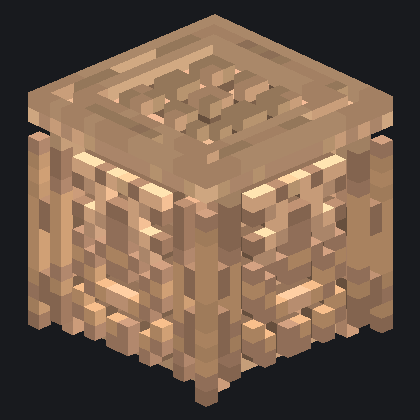
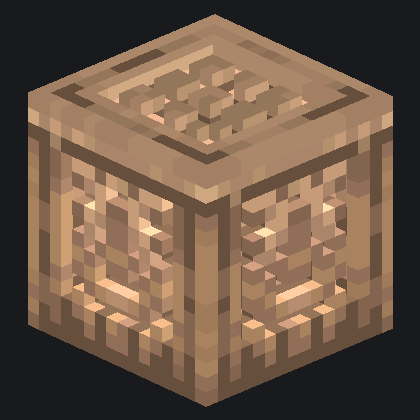
bake: a solid node is opaque to EVERY ray, not just axis-aligned ones
John's slivers -- bright specks inside the cabin's solid walls, present
at claude_descend = 1 and gone at 0 -- are the 2026-08-16 "HOLES IN THE
WALL" defect, incompletely fixed. That fix closed every all-air line
through a model ON AN AXIS and plugged each with one cell. A ray is not
axis aligned, the face carves are 3 cells deep, and a ray that drifts
one sub-voxel sideways walks round the plug and out of the node.

WHICH OF THE THREE POSSIBLE FAULTS IT IS, established before the fix:

  * the WALK is clean. claude_view 8 (new) re-walks the primary ray with
    a dumb 1/32 m point sampler -- half a sub-voxel, so it cannot step
    over one -- against the same texture. It found a surface march()
    had walked past on ZERO pixels of the frame, before the fix as well
    as after.
  * the READ is clean, and it is not displaced. claude_view 7 (new)
    dumps the whole 16^3 mask of the east-wall cell through
    subvoxSolid() itself, as a 4x4 sheet of slices. Diffed against
    planks_spruce_baked.json: 0 differing bits of 4096. An offset read
    would move the entire pattern; this cannot survive that test.
  * so it is the MASK, and it is: a plain CPU DDA on the shipped JSONs
    gets no ray at all from the -x face of one plank cell to its +x
    face (0 in 120,000) -- but simulate the real WALL, one node thick
    with the mask tiled, and rays DO get through, 5 in 300,000 for
    spruce and 19 in 300,000 for oak. The tunnel crosses a node seam,
[…]

diff --git a/util/claude_models.py b/util/claude_models.py
@@ -543,21 +543,54 @@ def model_cobble():
 # The rule below is written against the RESULT, not against either
 # cause, so it also catches the third way in that nobody has thought of.
 #
-# THE RULE: in a model that represents a FULL SOLID NODE, no line of
-# cells through the model on any axis may be all air -- minimum
-# thickness >= 1 sub-voxel along x, y and z.
+# THE 2026-08-16 RULE, AND WHY IT WAS NOT ENOUGH. It said: no line of
+# cells through the model ON ANY AXIS may be all air, and it plugged one
+# cell (index 7) of each offending line. It closed all 768 axis-aligned
+# lines and John's specks came back anyway -- because A RAY IS NOT AXIS
+# ALIGNED. The reasoning behind the one-cell plug ("a ray can only
+# traverse the tunnel end to end by staying inside it") is false for a
+# tunnel 3 cells DEEP: the face carves reach maxdepth = 3, so the air
+# beside a plugged line is usually air too, and a ray that drifts one
+# sub-voxel sideways over the crossing goes round the plug.
 #
-# FILL POLICY, and why: plug the CENTRE-MOST cell of the offending line
-# (index 7 of 0..15) with the model's base material -- the modal solid
-# palette entry, which for a texture bake is the interior fill colour
-# the bake already uses. One cell, not the whole line, because the line
-# is 1/16 m wide: a ray can only traverse it end to end by staying
-# inside it, so a single plug blocks every ray the tunnel could carry,
-# and refilling the rest would erase the groove that the texture asked
-# for. Centre-most rather than at a face because plugs at index 0/15
-# land on the node seam, where the neighbouring node's plug sits one
-# cell away and the pair reads as a 2-voxel lump; a centre plug is as
-# deep inside the node as the geometry allows.
+# AND THE TUNNEL CROSSES A NODE SEAM, which is why one model in
+# isolation looks innocent. MEASURED 2026-08-17 on the SHIPPED masks
+# with a plain DDA on the CPU: not one ray in 120,000 gets from the -x
+# face of a single plank cell to its +x face. Simulate the actual WALL
+# instead -- one node thick, the same mask tiled in y and z -- and rays
+# DO get through: 5 in 300,000 for spruce, 19 in 300,000 for oak, all of
+# them near-perpendicular. A ray leaves one cell's carved shell through
+# a SIDE face and carries on inside its neighbour's. That is the sliver
+# rate, and none of it is the renderer's doing: the GPU's copy of the
+# spruce mask was dumped to screen the same day and matched the JSON in
+# all 4096 bits, and an independent point sampler found no place where
+# the walk stepped over geometry that was there.
+#
+# THE RULE NOW, and it is a proof rather than a patch: in a model that
+# represents a FULL SOLID NODE, every air cell lies within MAXDEPTH of
+# EXACTLY ONE face. Carving is a surface effect -- no face carves deeper
+# than maxdepth -- so that makes the air six DISJOINT BOXES, one per
+# face, each open only to its own face:
+#
+#     -x box = x in [0,3), y and z in [3,13)      (and five more)
+#
+# A 3D-DDA visits face-adjacent cells, so a ray's path through air is a
+# 6-CONNECTED chain and cannot leave its box without entering a cell the
+# rule has made solid. A ray that came in through the -x face is moving
+# +x, so it cannot leave the way it came either. It therefore STOPS
+# INSIDE THE NODE, whatever its direction. Both leaks this bake has now
+# paid for are corollaries: a straight crossing (-x to +x) has to cross
+# the solid core, and a CORNER CLIP (-z to +x, which is what survived
+# the first attempt at this fix on 2026-08-17 and put the corner post's
+# oak inside the cabin's spruce wall) has to cross a cell that is within
+# maxdepth of both faces.
+#
+# FILL POLICY: the offending cells take the model's base material -- the
+# modal solid palette entry, which for a texture bake is the interior
+# fill colour the bake already writes. Equivalently, and this is the way
+# to picture the cost: a face may only carve its central 10x10 texels,
+# and keeps a 3-texel solid rim. MEASURED: 2.7-4.3 % of a cell for the
+# planks, 13.2 % for the furnace.
 #
 # Applied ONLY to SOLID_NODE_MODELS. A bed, a lantern, a campfire, a
 # carpet, a torch and a flowerpot are see-through on purpose and any
@@ -575,9 +608,6 @@ SOLID_NODE_MODELS = frozenset((
 # from its cell -- it is a full node in the map but not a full cube of
 # geometry), bed_red_foot/head, lantern_floor, campfire_lit,
 # carpet_white, flowerpot_poppy, torch_baked.
-
-PLUG_AT = 7          # centre-most index of 0..15, tie broken low
-
 
 def through_lines(v):
     """Every all-air line through a 16^3 mask, as (axis, a, b) with
@@ -612,23 +642,34 @@ def base_material_index(pal, v):
     return int(counts.argmax())
 
 
-def enforce_min_thickness(name, pal, v):
-    """Apply the bake floor. Returns (v, report); v is modified in
-    place. report = dict(before=n, after=n, plugs=[(axis,a,b,x,y,z)]).
+SHELL = 3            # = the bakes' maxdepth: no carve goes deeper
+
+
+def shell_count(n=N, depth=SHELL):
+    """For every cell of an n^3 model, how many of the six faces it is
+    within `depth` of. 1 = it may be air; 0 or >=2 = it may not."""
+    idx = np.indices((n, n, n))
+    return (np.minimum(idx, n - 1 - idx) < depth).sum(axis=0)
+
+
+def enforce_opaque(name, pal, v):
+    """Apply the bake floor: every air cell must sit in EXACTLY ONE
+    face's carve shell, which makes the node opaque to any straight ray
+    (see the block above). Returns (v, report); v is modified in place.
+    report = dict(before=n, after=n, plugs=[(x,y,z)], material=i).
+
+    `before`/`after` still count all-air AXIS-ALIGNED lines, because
+    that is the number this bake has reported since 2026-08-16 and it
+    stays comparable -- but it is a corollary of the rule now, not the
+    rule, and `after` is 0 by construction.
     """
     v = np.asarray(v)
     before = through_lines(v)
     mat = base_material_index(pal, v)
-    plugs = []
-    for axis, a, b in before:
-        if axis == "x":
-            z, y, x = a, b, PLUG_AT
-        elif axis == "y":
-            z, y, x = a, PLUG_AT, b
-        else:
-            z, y, x = PLUG_AT, a, b
-        v[z, y, x] = mat
-        plugs.append((axis, a, b, x, y, z))
+    bad = (v == 0) & (shell_count() != 1)
+    plugs = [(int(x), int(y), int(z))
+             for z, y, x in np.argwhere(bad)]
+    v[bad] = mat
     after = through_lines(v)
     return v, dict(before=len(before), after=len(after), plugs=plugs,
                    material=mat)
@@ -786,8 +827,20 @@ def main():
                model_log_oak, model_cobble):
         name, pal, v = fn()
         if name in SOLID_NODE_MODELS:
-            v, floor = enforce_min_thickness(name, pal, v)
-            holes = "  holes %d->%d" % (floor["before"], floor["after"])
+            v, floor = enforce_opaque(name, pal, v)
+            holes = "  holes %d->%d  opacity fill %4d" % (
+                floor["before"], floor["after"], len(floor["plugs"]))
+            # The invariant, checked rather than trusted: no air
+            # cell may be in two shells or in none. That is the whole
+            # proof, it is 4096 cells to look at rather than a ray
+            # budget to argue about, and it is asserted on the RESULT so
+            # a future carve that reaches deeper than SHELL trips it.
+            leftover = int(((np.asarray(v) == 0)
+                            & (shell_count() != 1)).sum())
+            if leftover:
+                raise SystemExit(
+                    "BAKE FLOOR FAILED on %s: %d air cell(s) are not in "
+                    "exactly one face shell" % (name, leftover))
             if floor["after"]:
                 raise SystemExit(
                     "BAKE FLOOR FAILED on %s: %d through-line(s) survived "

diff --git a/util/claude_sliver_ab.py b/util/claude_sliver_ab.py
@@ -23,6 +23,15 @@ Why this rather than screenshots of the photo view:
   * the photo view averages the leak into the wall and is UNRELIABLE at
     this depth -- one run read 75 differing px, a second read 0.
 
+VIEW 2 IS THE ARM; VIEW 1 IS NOT, and the numbers above say why if you
+read them twice: the normal ladder's descend = 0 reference is 108.520
+MEAN against a 115 MAX, i.e. it was never uniform, and the probe's own
+guard says so. It cannot be uniform -- claude_descend = 1 legitimately
+turns a groove's floor into a +Y face inside a -X wall, because every
+building block in this world carries baked relief. ALBEDO is the honest
+channel: it is read from the CELL, so it can only change when the hit
+lands in a DIFFERENT cell, which is exactly the leak and nothing else.
+
 Usage:  python3 util/claude_sliver_ab.py [--target N] [--view 2]
 Requires a live look seat (util/claude_look.sh) and window id lookup.
 """
@@ -38,7 +47,11 @@ CROP = (300, 880, 200, 1700)   # y0,y1,x0,x1 -- excludes HUD text and hotbar
 
 
 def window_id():
-    out = subprocess.run([sys.executable, "-c", """
+    # /usr/bin/python3 on purpose: Quartz (pyobjc) ships with macOS's
+    # own python and is absent from a homebrew one, so `python3
+    # claude_sliver_ab.py` printed "no Luanti window found" on a seat
+    # that was up (2026-08-17). numpy and PIL are present in both.
+    out = subprocess.run(["/usr/bin/python3", "-c", """
 import Quartz
 wl=Quartz.CGWindowListCopyWindowInfo(Quartz.kCGWindowListOptionAll
     |Quartz.kCGWindowListExcludeDesktopElements, Quartz.kCGNullWindowID)
